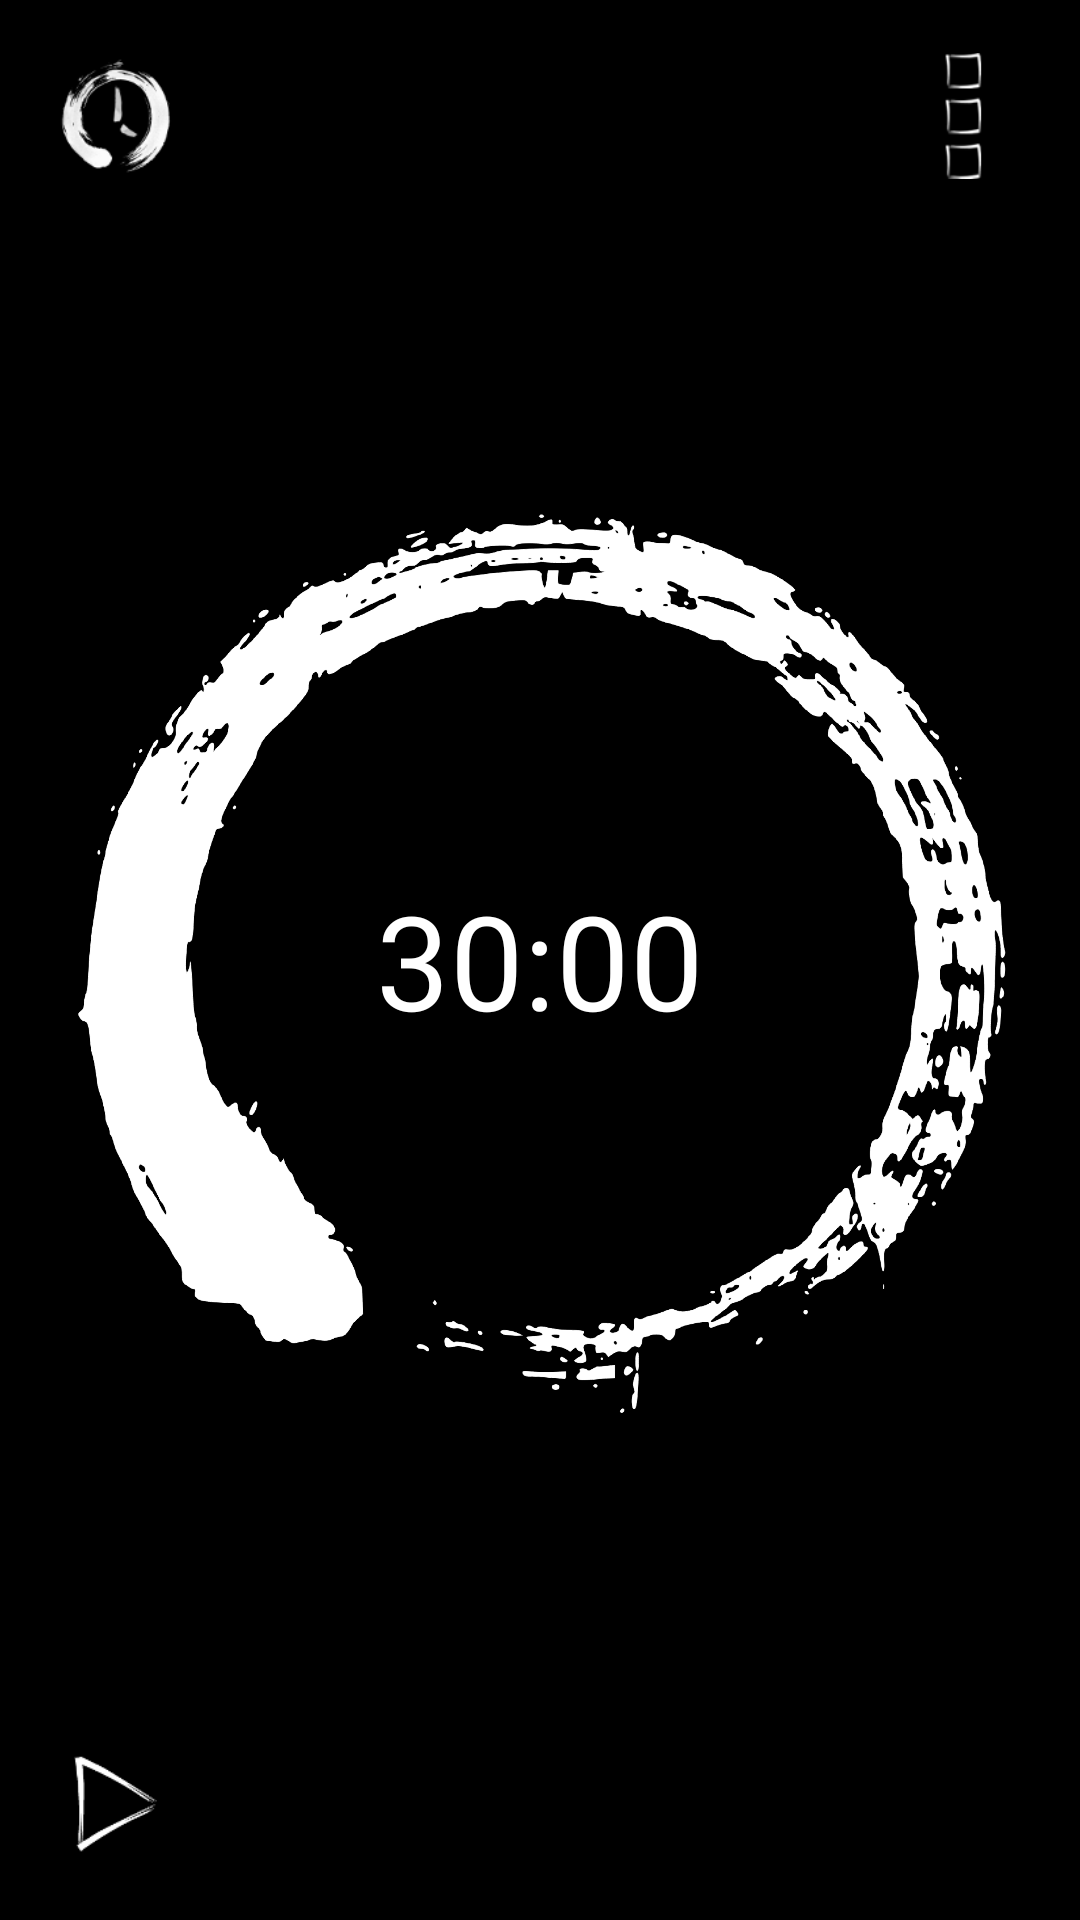
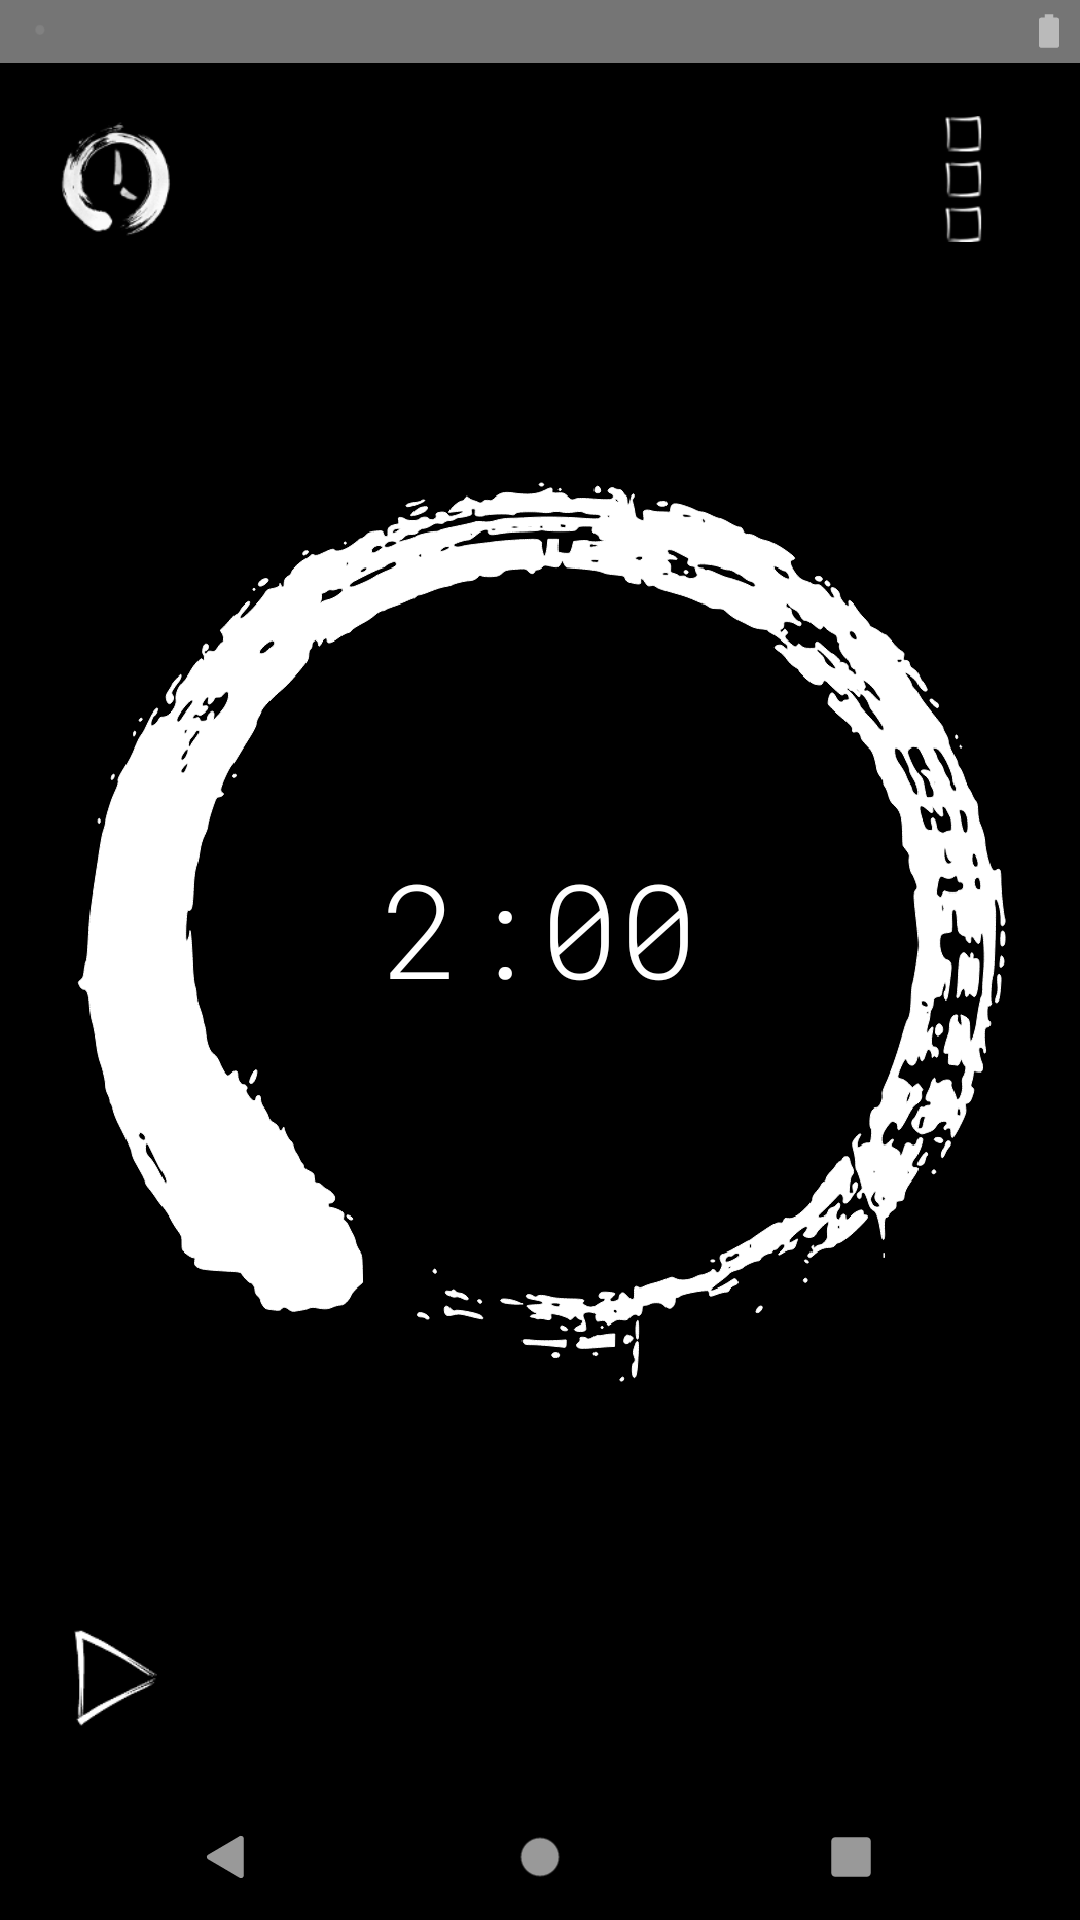
Update screenshots

diff --git a/app/src/androidTest/java/org/yuttadhammo/BodhiTimer/TimerActivityTest.kt b/app/src/androidTest/java/org/yuttadhammo/BodhiTimer/TimerActivityTest.kt
@@ -18,6 +18,7 @@ import org.hamcrest.TypeSafeMatcher
 import org.junit.Rule
 import org.junit.Test
 import org.junit.runner.RunWith
+import tools.fastlane.screengrab.Screengrab
 
 @LargeTest
 @RunWith(AndroidJUnit4::class)
@@ -29,6 +30,7 @@ class TimerActivityTest {
 
     @Test
     fun timerActivityTest() {
+        Screengrab.screenshot("main");
         val appCompatImageButton = onView(
                 allOf(withId(R.id.setButton), withContentDescription("Set"),
                         childAtPosition(

diff --git a/app/src/androidTest/java/org/yuttadhammo/BodhiTimer/TimerActivityTest2.java b/app/src/androidTest/java/org/yuttadhammo/BodhiTimer/TimerActivityTest2.java
@@ -1,0 +1,90 @@
+package org.yuttadhammo.BodhiTimer;
+
+
+import android.view.View;
+import android.view.ViewGroup;
+import android.view.ViewParent;
+
+import androidx.test.espresso.ViewInteraction;
+import androidx.test.filters.LargeTest;
+import androidx.test.rule.ActivityTestRule;
+import androidx.test.runner.AndroidJUnit4;
+
+import org.hamcrest.Description;
+import org.hamcrest.Matcher;
+import org.hamcrest.TypeSafeMatcher;
+import org.junit.Rule;
+import org.junit.Test;
+import org.junit.runner.RunWith;
+
+import tools.fastlane.screengrab.Screengrab;
+
+import static androidx.test.espresso.Espresso.onView;
+import static androidx.test.espresso.action.ViewActions.click;
+import static androidx.test.espresso.action.ViewActions.scrollTo;
+import static androidx.test.espresso.assertion.ViewAssertions.matches;
+import static androidx.test.espresso.matcher.ViewMatchers.isDisplayed;
+import static androidx.test.espresso.matcher.ViewMatchers.withContentDescription;
+import static androidx.test.espresso.matcher.ViewMatchers.withId;
+import static androidx.test.espresso.matcher.ViewMatchers.withParent;
+import static androidx.test.espresso.matcher.ViewMatchers.withText;
+import static org.hamcrest.Matchers.allOf;
+
+@LargeTest
+@RunWith(AndroidJUnit4.class)
+public class TimerActivityTest2 {
+
+    @Rule
+    public ActivityTestRule<TimerActivity> mActivityTestRule = new ActivityTestRule<>(TimerActivity.class);
+
+    @Test
+    public void timerActivityTest2() {
+        Screengrab.screenshot("main");
+        ViewInteraction appCompatImageButton = onView(
+                allOf(withId(R.id.setButton), withContentDescription("Set"),
+                        childAtPosition(
+                                allOf(withId(R.id.mainLayout),
+                                        childAtPosition(
+                                                withId(android.R.id.content),
+                                                0)),
+                                4),
+                        isDisplayed()));
+        appCompatImageButton.perform(click());
+
+        ViewInteraction button = onView(
+                allOf(withId(R.id.btnOk), withText("OK"),
+                        childAtPosition(
+                                allOf(withId(R.id.button_cont),
+                                        childAtPosition(
+                                                withId(R.id.container),
+                                                6)),
+                                2)));
+        button.perform(scrollTo(), click());
+
+        ViewInteraction textView = onView(
+                allOf(withId(R.id.text_top),
+                        withParent(allOf(withId(R.id.mainLayout),
+                                withParent(withId(android.R.id.content)))),
+                        isDisplayed()));
+        textView.check(matches(withText("0")));
+    }
+
+    private static Matcher<View> childAtPosition(
+            final Matcher<View> parentMatcher, final int position) {
+
+        return new TypeSafeMatcher<View>() {
+            @Override
+            public void describeTo(Description description) {
+                description.appendText("Child at position " + position + " in parent ");
+                parentMatcher.describeTo(description);
+            }
+
+            @Override
+            public boolean matchesSafely(View view) {
+                ViewParent parent = view.getParent();
+                return parent instanceof ViewGroup && parentMatcher.matches(parent)
+                        && view.equals(((ViewGroup) parent).getChildAt(position));
+            }
+        };
+    }
+}
